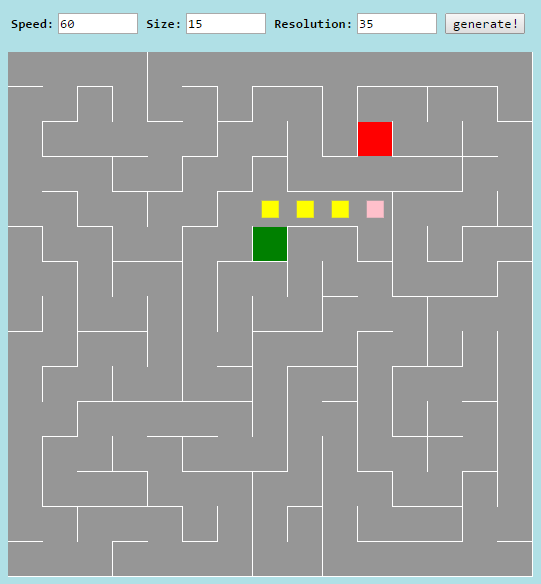
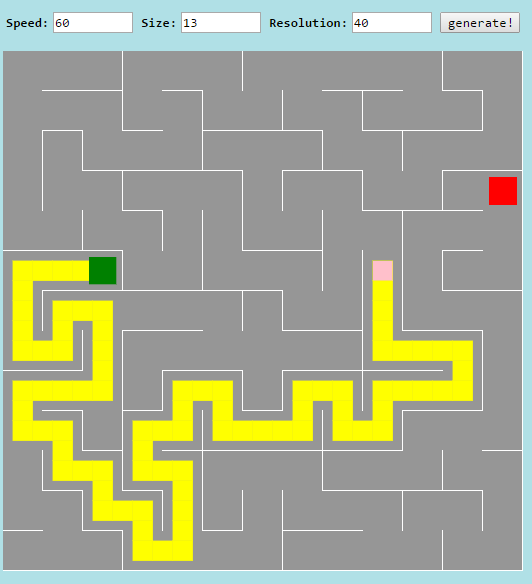
Improved path following graphic

diff --git a/maze-lib/solving.js b/maze-lib/solving.js
@@ -23,6 +23,7 @@ function solving() {
 			fill(150)
 			drawRectAt(this.prevsq)
 		}
+		
 		mousePos = createVector(floor(mouseX/pxlsz), floor(mouseY/pxlsz))
 		this.addCells(0)
 		fill(HOVER_COLOR)
@@ -30,6 +31,11 @@ function solving() {
 			drawRectAt(mousePos, 0.5)
 			this.prevsq = mousePos
 		}
+		
+		fill(START_COLOR)
+		drawRectAt(startCell.pos, 0.7)
+		fill(END_COLOR)
+		drawRectAt(destCell.pos, 0.7)
 		
 		if (this.path[this.path.length-1] == destCell) {
 			this.finished = true
@@ -46,10 +52,7 @@ function solving() {
 	
 	this.addCells = function(arr) {
 		// reset color
-		fill(150)
-		for (i = 0; i < this.path.length; i++)
-			if (this.path[i] != startCell && this.path[i] != destCell)
-				drawRectAt(this.path[i].pos)
+		this.paintPath(150)
 		
 		// calc new path
 		if (!this.backtrack()) {
@@ -58,10 +61,20 @@ function solving() {
 		}
 		
 		// color new path
-		fill(BUILDING_COLOR)
-		for (i = 0; i < this.path.length; i++)
-			if (this.path[i] != startCell && this.path[i] != destCell)
-				drawRectAt(this.path[i].pos, 0.5)
+		this.paintPath(BUILDING_COLOR, 0.52)
+	}
+	
+	this.paintPath = function(color, size) {
+		size = size || 1
+		fill(color)
+		for (i = 0; i < this.path.length; i++) {
+			drawRectAt(this.path[i].pos, size)
+			if (i+1 < this.path.length) {
+				connection = p5.Vector.add(this.path[i].pos, this.path[i+1].pos)
+				connection.div(2)
+				drawRectAt(connection, size)
+			}
+		}
 	}
 	
 	// this function is used for two things:
@@ -78,7 +91,7 @@ function solving() {
 	}
 	
 	this.backtrack = function() {
-		for (i = 0; i < this.path.length; i++)
+		for (i = 0; i < this.path.length-1; i++)
 			if (this.path[i].pos.equals(mousePos)) {
 				this.path.splice(max(1, i), this.path.length - i)
 				return true

diff --git a/maze-lib/building.js b/maze-lib/building.js
@@ -25,10 +25,6 @@ function building() {
 			}
 		} else {
 			console.log("done")
-			fill(START_COLOR)
-			drawRectAt(startCell.pos)
-			fill(END_COLOR)
-			drawRectAt(destCell.pos)
 			state = new solving()
 			state.setup()
 		}
